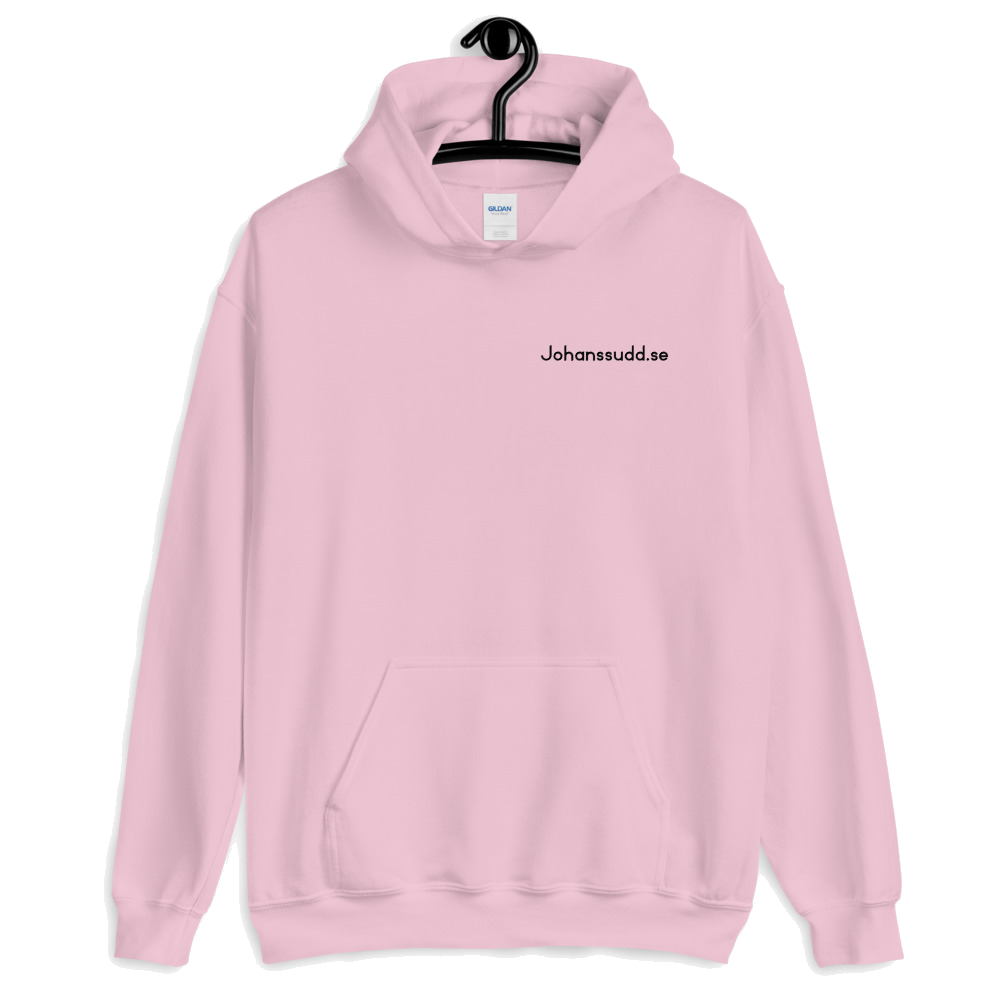
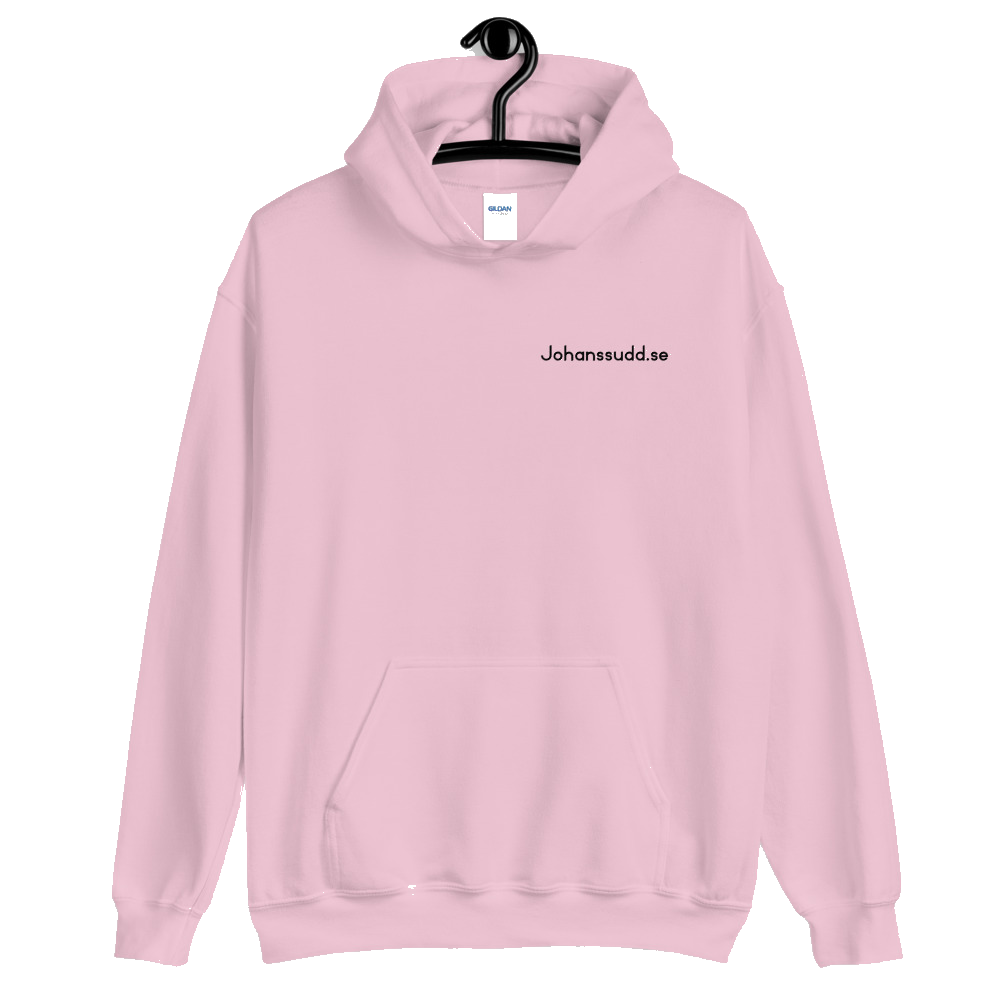
updated!

diff --git a/update.py b/update.py
@@ -13,7 +13,7 @@ def convertImage():
     newData = []
   
     for item in datas:
-        if item[0] > 240 and item[1] > 240 and item[2] > 240:
+        if item[0] > 200 and item[1] > 200 and item[2] > 200:
             newData.append((255, 255, 255, 0))
         else:
             newData.append(item)
